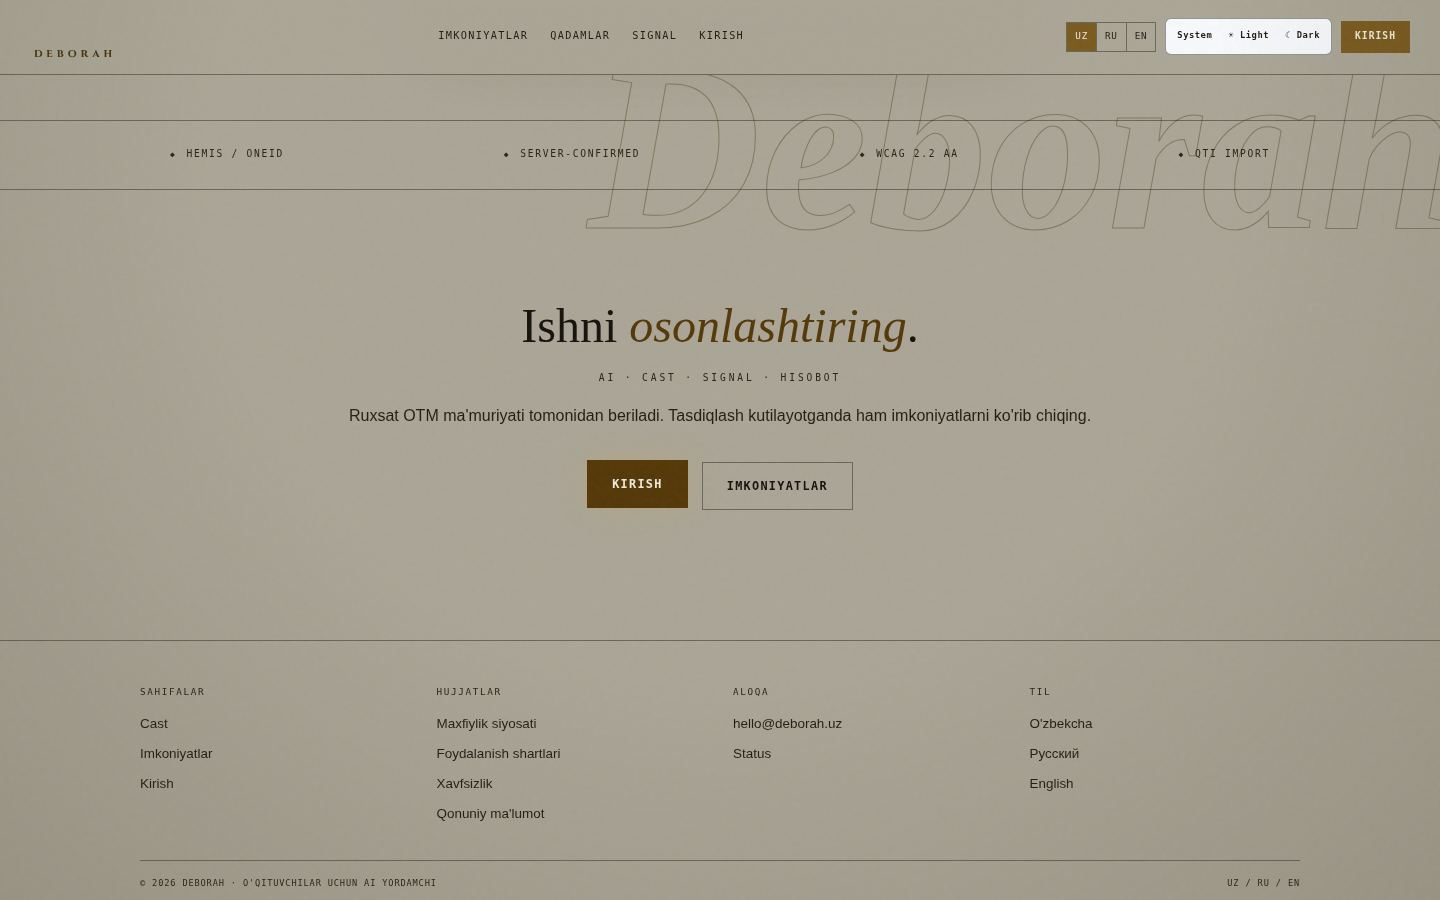
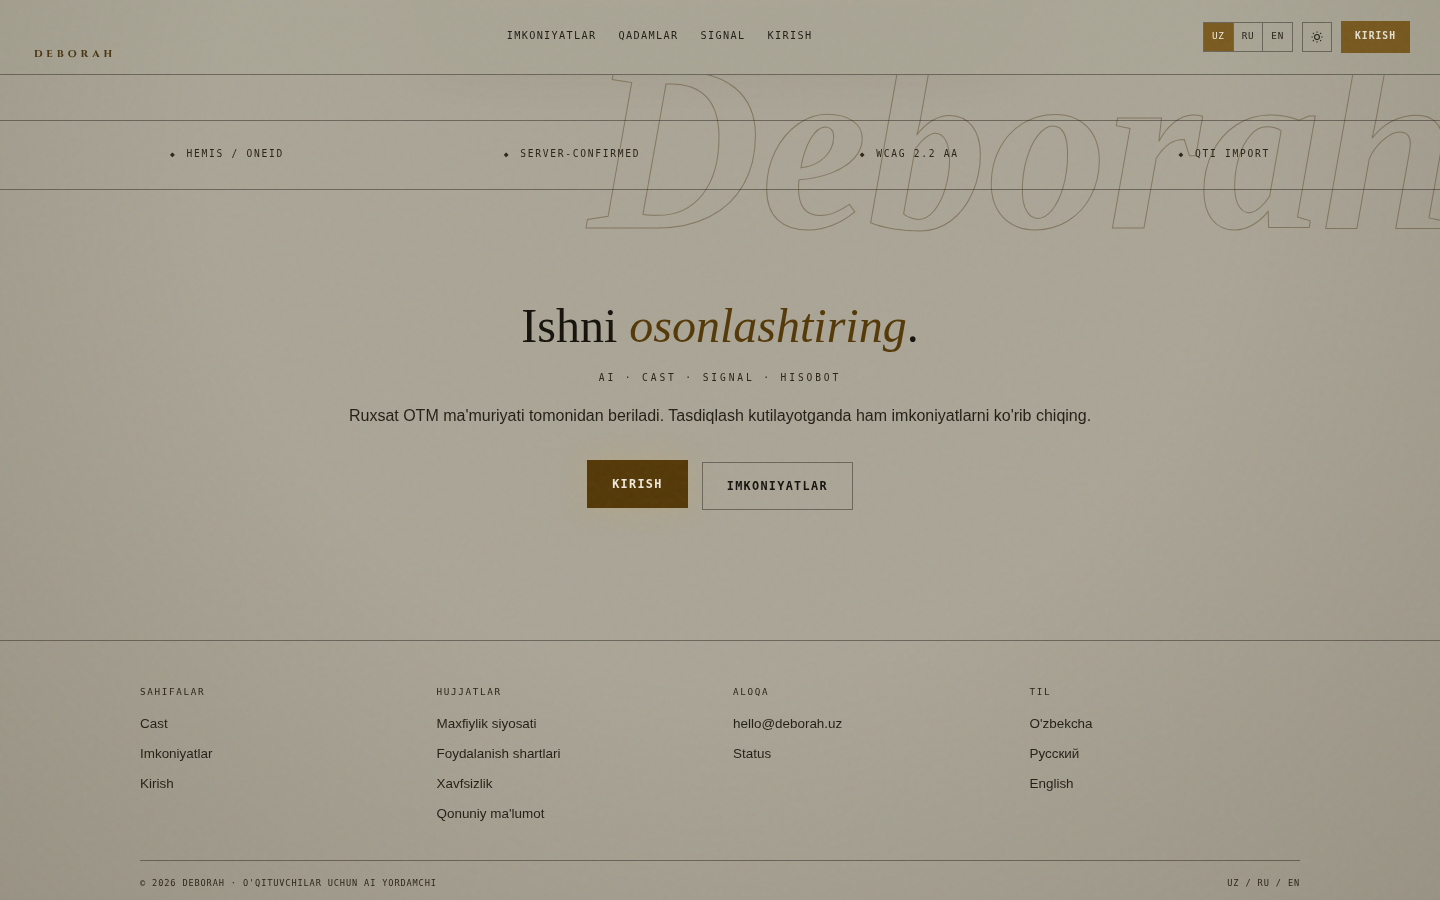
fix(landing): demo 1:1 tiklandi — theme-control (System/Light/Dark) olib tashlandi, demo tbtn qaytdi, birinchi tashrif DARK (demo kontrakti)

Changed region(s): [[0.7188, 0.0, 0.9375, 0.0622], [0.3125, 0.0311, 0.4688, 0.0622], [0.5312, 0.0311, 0.5625, 0.0622]]

diff --git a/tests/integration/landing.test.js b/tests/integration/landing.test.js
@@ -235,7 +235,10 @@ describe('Landing — HTTP routing (DEMO 1:1 — tasdiqlangan demo versiyasi)', 
 
   it('DEMO — tema tugmasi (light/dark) va statik live-screen (no-JS)', async () => {
     const html = await (await fetch(`${serverUrl}/`)).text();
-    expect(html).toContain('class="theme-segmented"');
+    // Demo 1:1: header'dagi klassik oy/quyosh tugmasi (theme-segmented EMAS —
+    // demo'da unday narsa yo'q, faqat .tbtn #themeBtn)
+    expect(html).toContain('class="tbtn" id="themeBtn"');
+    expect(html).not.toContain('data-theme-state-btn');
     expect(html).toContain('class="screen reveal"');
     // Live screen statik kontenti server HTML'da (JS'siz ko'rinadi)
     expect(html).toContain('SELECT DISTINCT');

diff --git a/design-audit/contrast-report.md b/design-audit/contrast-report.md
@@ -1,6 +1,6 @@
 # Deborah Contrast Report (S06.12)
 
-Generated: 2026-08-26T02:03:05.697Z
+Generated: 2026-08-26T03:51:45.294Z
 Pair check: 40 | PASS: 40 | FAIL: 0 (buffer 0.2–0.5 near threshold)
 
 | Theme | Pair | FG | BG | Ratio | Target | Status |
